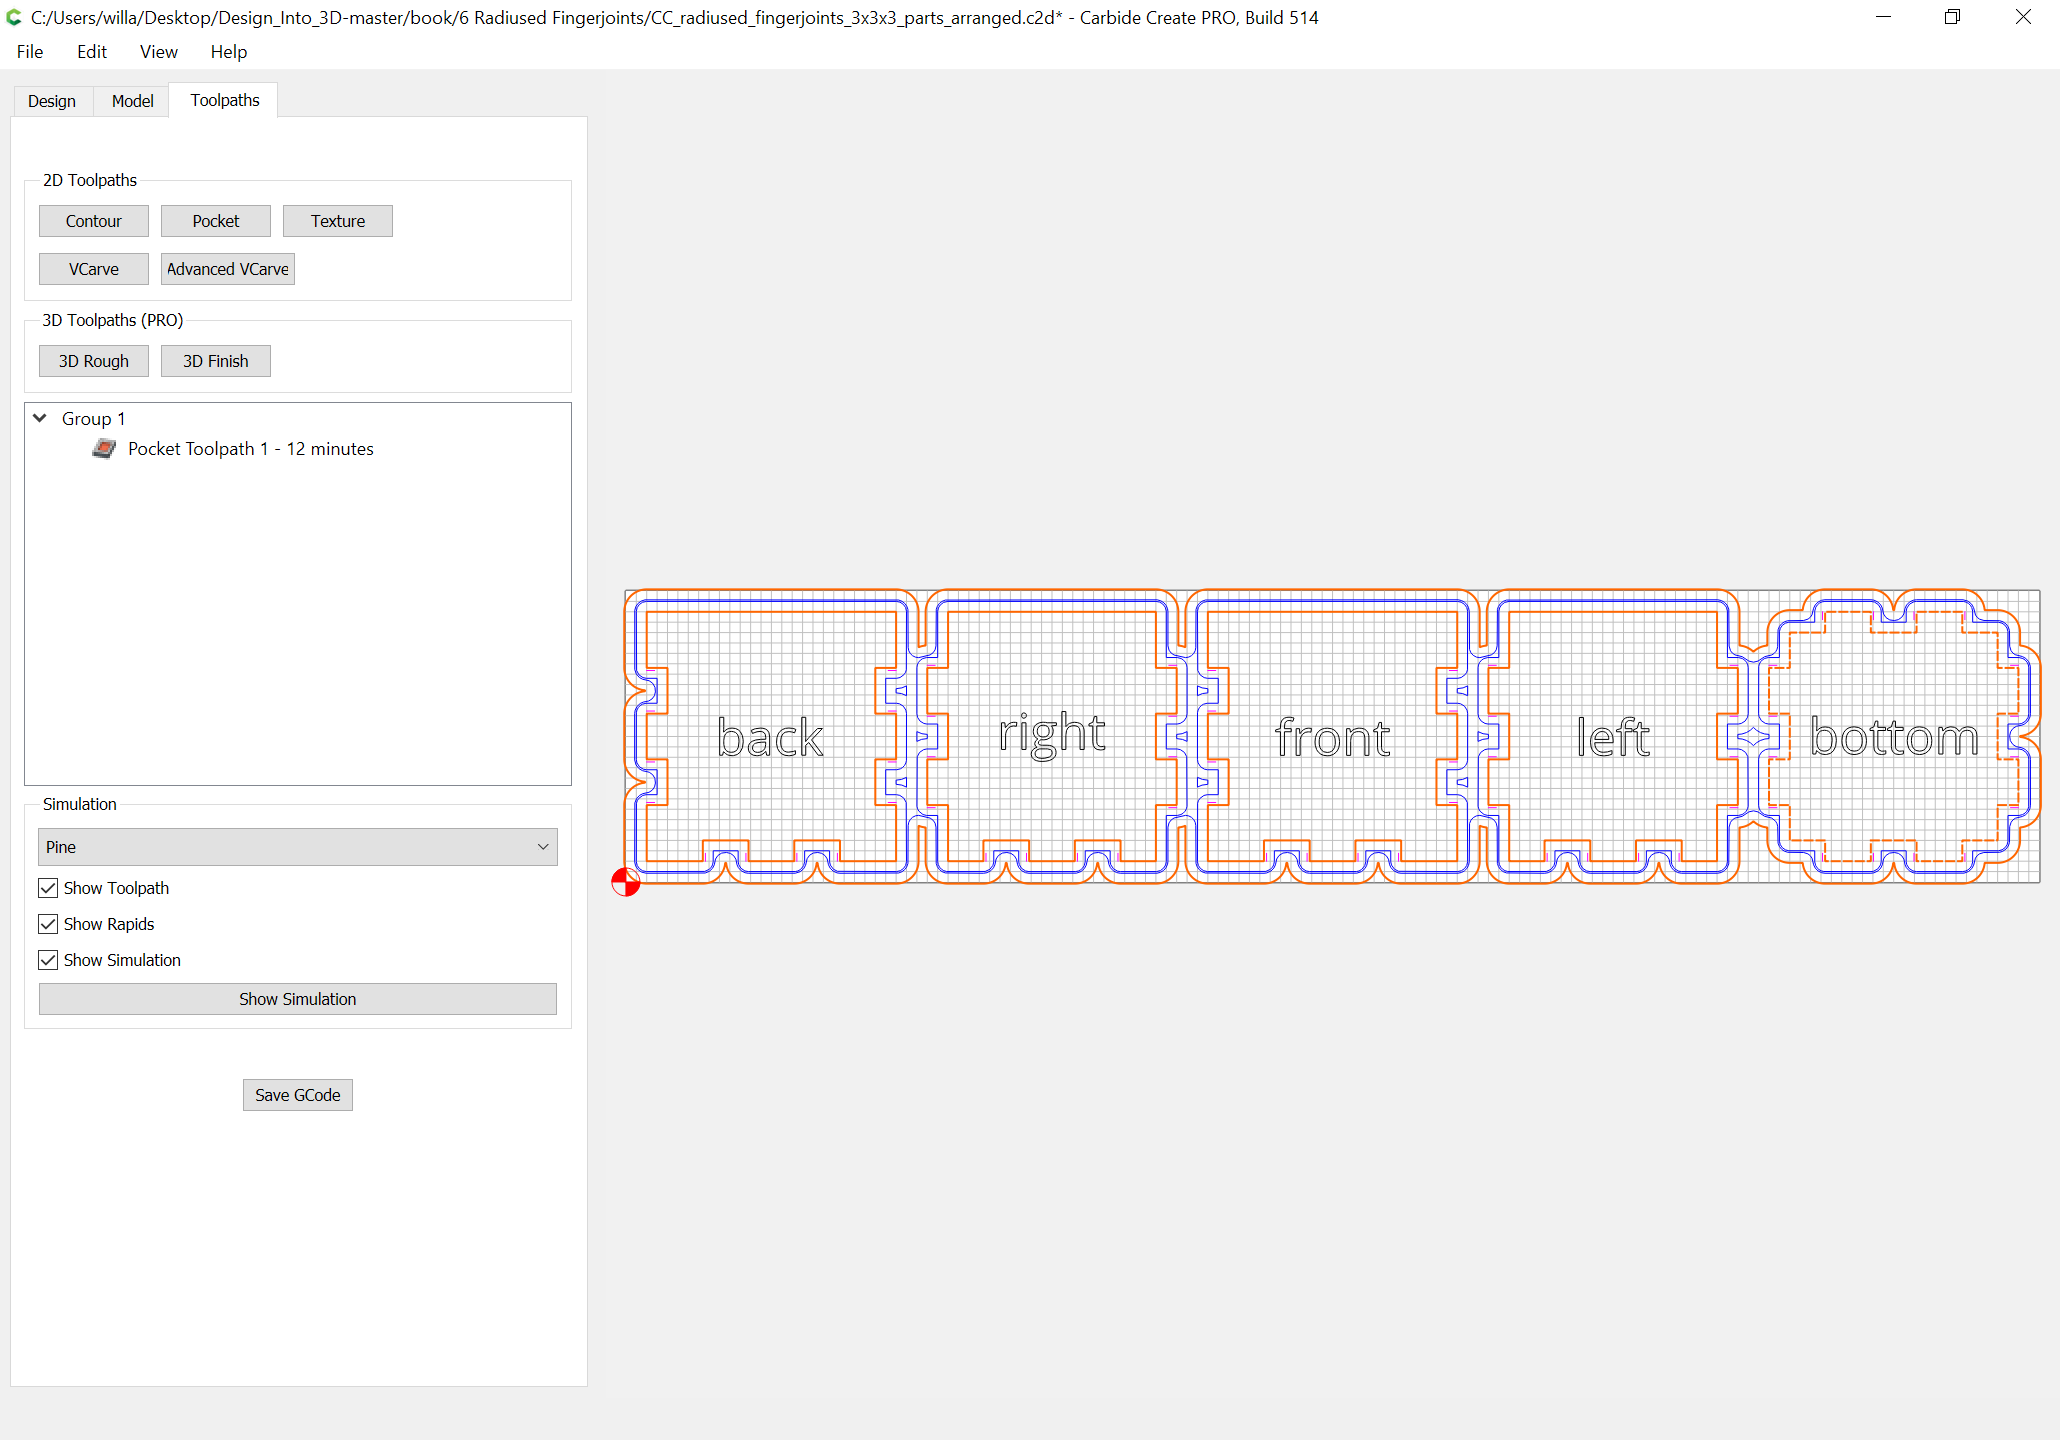
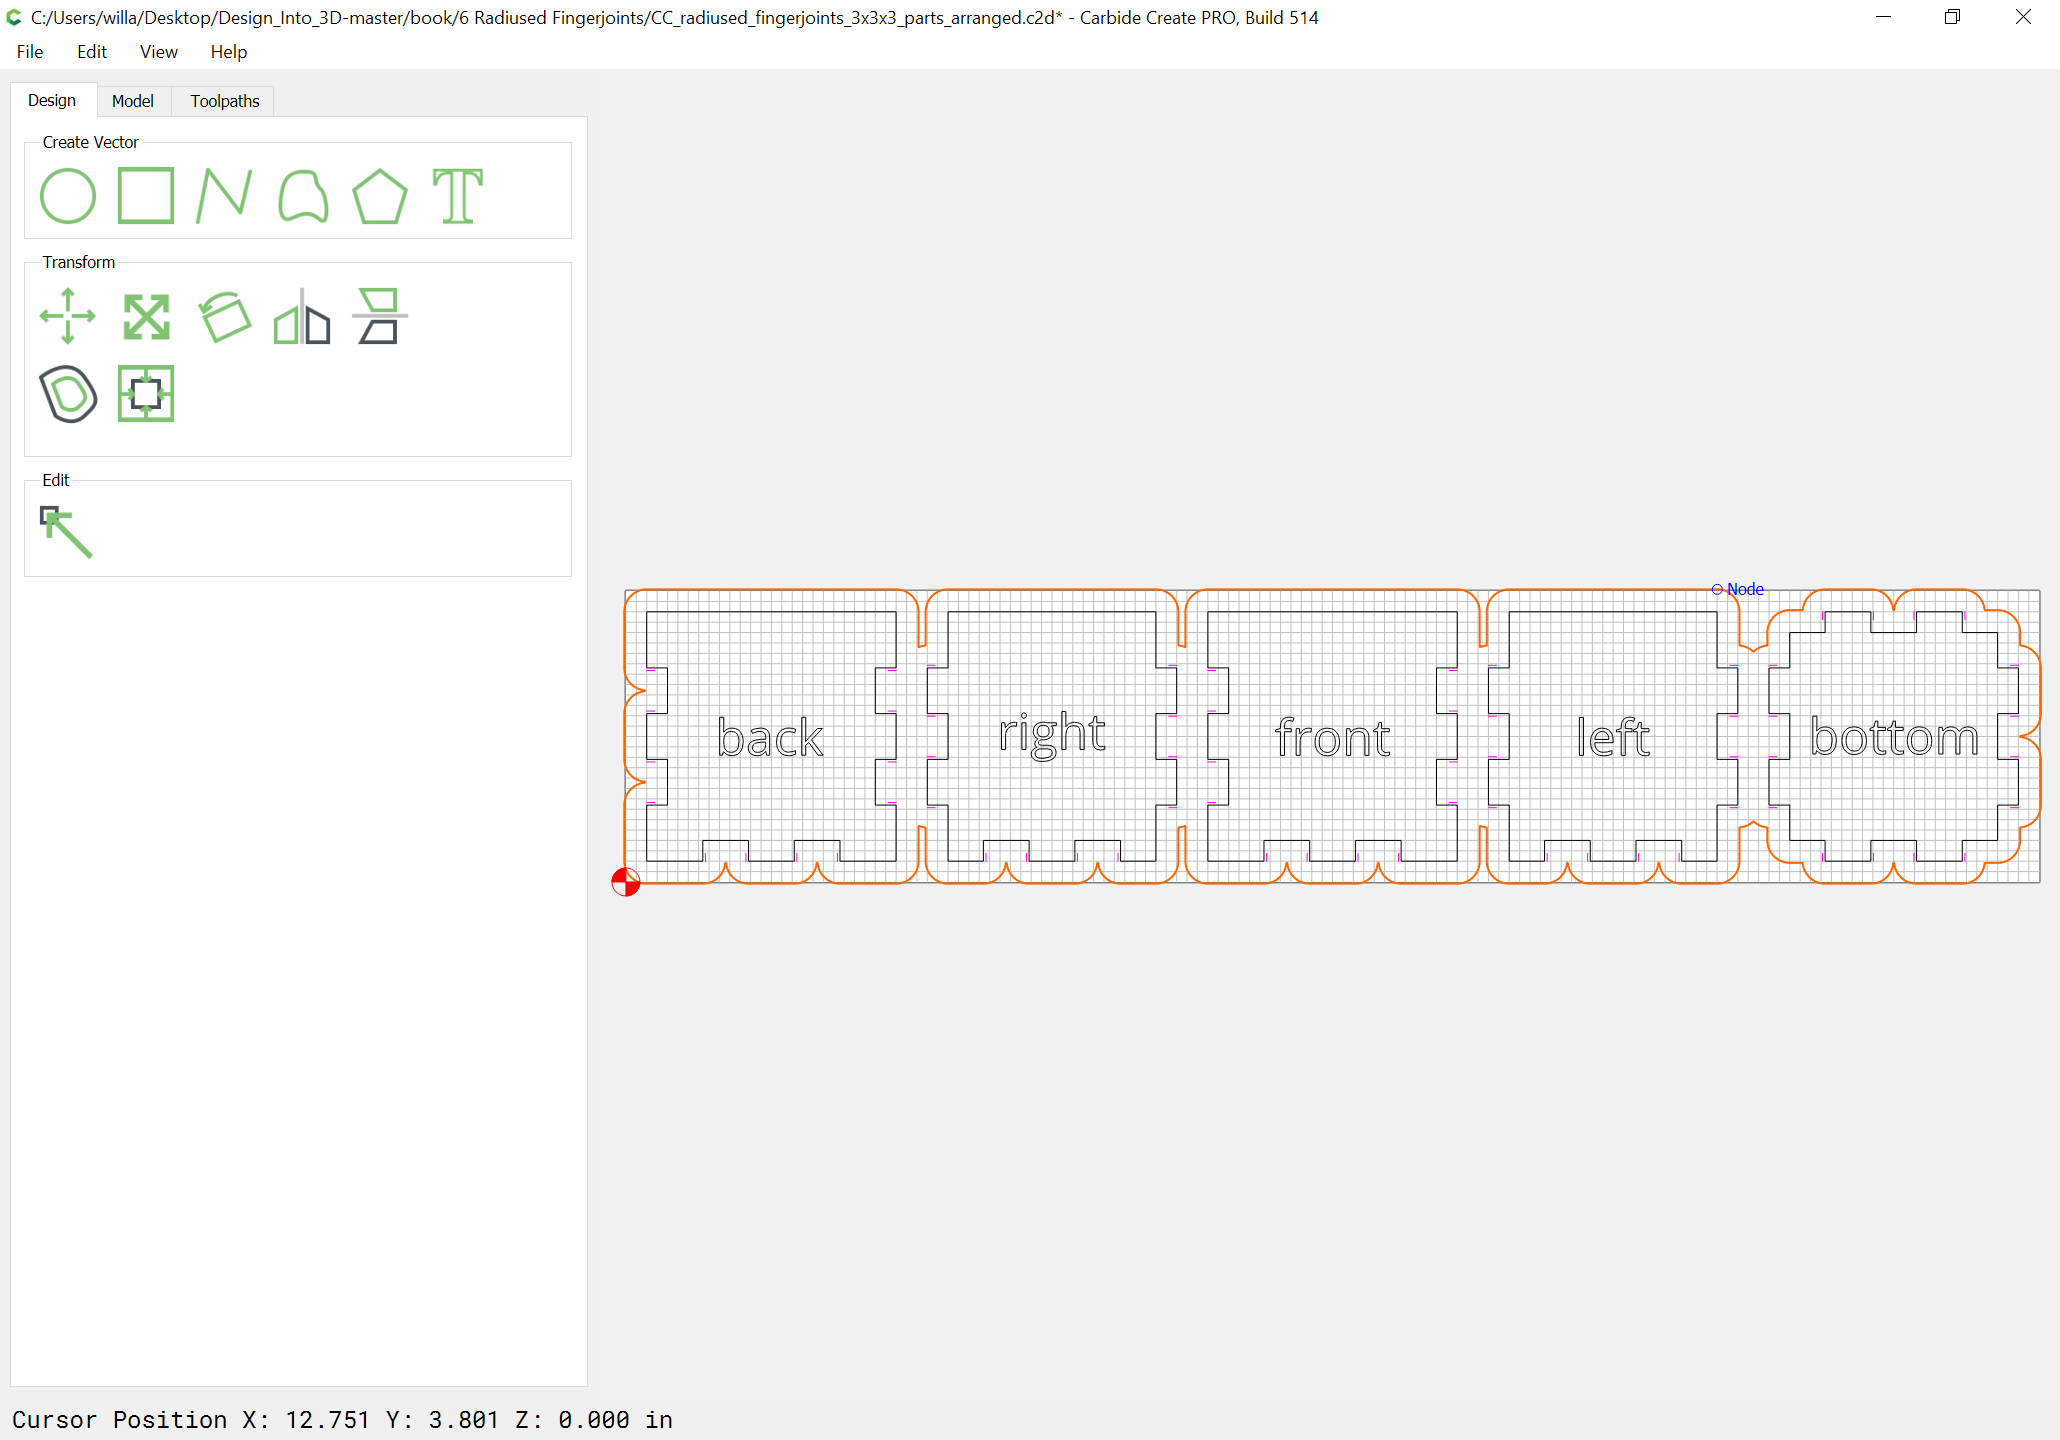
GitBook: [master] one page and 4 assets modified

diff --git a/radiused-fingerjoints.md b/radiused-fingerjoints.md
@@ -172,11 +172,19 @@ With the concept proven out it is simply a matter of making the toolpaths to cut
 
 With the parts laid out, select the part outlines and offset them a suitable distance:
 
-![Carbide Create: Box: 3&quot; x 3&quot; x 3&quot;: Parts Outline](.gitbook/assets/image%20%2826%29.png)
+![Carbide Create: Box: 3&quot; x 3&quot; x 3&quot;: Parts Outline](.gitbook/assets/image%20%2827%29.png)
 
 Select the outline and the parts and assign a pocket toolpath which will cut down to tab depth:
 
-![Carbide Create: Box: 3&quot; x 3&quot; x 3&quot;: Parts Toolpath](.gitbook/assets/image%20%2827%29.png)
+![Carbide Create: Box: 3&quot; x 3&quot; x 3&quot;: Parts Toolpath](.gitbook/assets/image%20%2828%29.png)
 
+Select the lines for the relief cut, select a suitable tool and assign it a suitable tool cutting to a depth which will cut the relief \(in this case 0.125"\) ― the actual tool used doesn't matter since it's not possible to get a correct preview, but matching the outer diameter if convenient will help in verifying the cut:
 
+![Carbide Create: Box: 3&quot; x 3&quot; x 3&quot;: Radius Toolpath](.gitbook/assets/image%20%2829%29.png)
+
+Next add an outer profile toolpath to cut out the parts:
+
+![Carbide Create: Box: 3&quot; x 3&quot; x 3&quot;: Profile Toolpath](.gitbook/assets/image%20%2826%29.png)
+
+Lastly generate the G-Code, secure the stock, set zero relative to it, and cut the part out.
 
